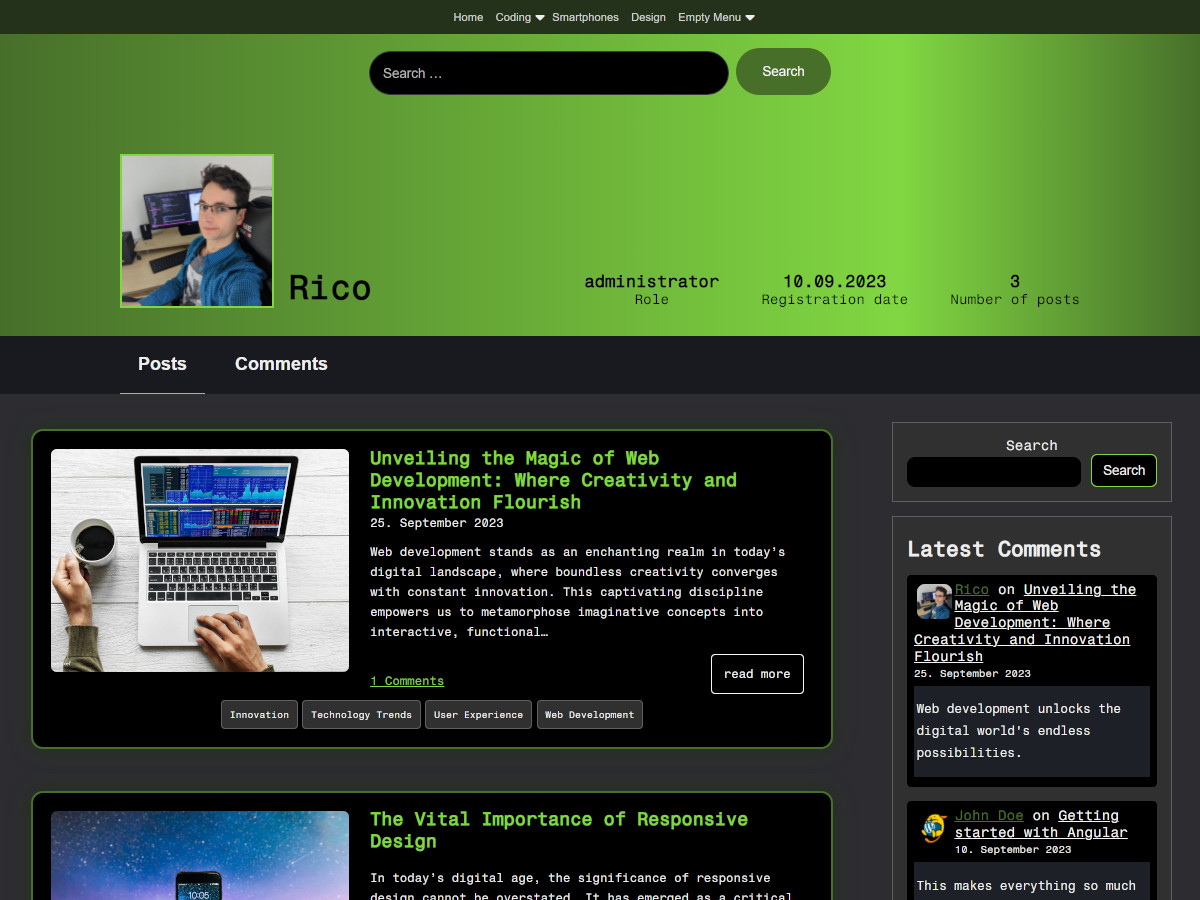
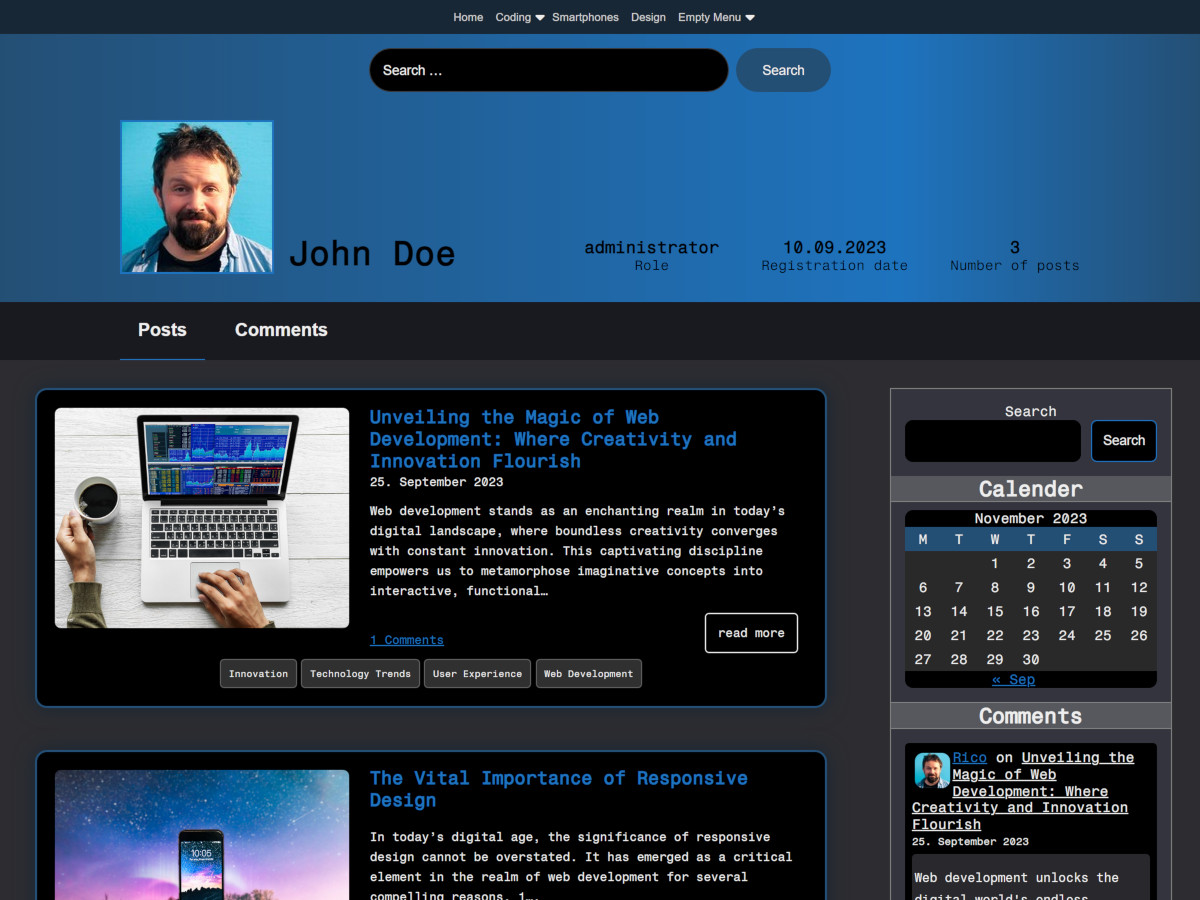
screenshoot, deleted tag mixin, fix feed sidebar

diff --git a/wp-block.css b/wp-block.css
@@ -10,25 +10,6 @@
 .wp-block-post-terms .wp-block-post-terms__separator {
   display: none;
 }
-.wp-block-post-terms a {
-  border: 1px solid rgb(95, 95, 95);
-  padding: 0.8em;
-  border-radius: 4px;
-  background-color: #303030;
-  cursor: pointer;
-  color: rgb(177, 177, 177);
-  text-decoration: none;
-  white-space: nowrap;
-  font-size: 0.8em;
-}
-.wp-block-post-terms a a {
-  color: var(--lime_blog_font_color);
-  text-decoration: none;
-  white-space: nowrap;
-}
-.wp-block-post-terms a:hover {
-  background-color: rgba(128, 128, 128, 0.575);
-}
 
 .wp-block-tag-cloud {
   display: flex;
@@ -36,26 +17,7 @@
   gap: 0.3em;
 }
 .wp-block-tag-cloud a {
-  border: 1px solid rgb(95, 95, 95);
-  padding: 0.8em;
-  border-radius: 4px;
-  background-color: #303030;
-  cursor: pointer;
-  color: rgb(177, 177, 177);
-  text-decoration: none;
-  white-space: nowrap;
-  font-size: 0.8em;
-  font-size: 0.8em !important;
   margin-right: 0;
-  background-color: #28282d;
-}
-.wp-block-tag-cloud a a {
-  color: var(--lime_blog_font_color);
-  text-decoration: none;
-  white-space: nowrap;
-}
-.wp-block-tag-cloud a:hover {
-  background-color: rgba(128, 128, 128, 0.575);
 }
 
 .wp-block-post-navigation-link {

diff --git a/template-parts/post-list-layouts/cards-posts-list.scss b/template-parts/post-list-layouts/cards-posts-list.scss
@@ -99,6 +99,7 @@
         list-style: none;
         margin: 0.5em;
         gap: 0.4em;
+
     }
 
     .lime_blog_post_card_footer_row {
@@ -111,6 +112,14 @@
 
             .lime_blog_tag {
                 border-radius: var(--lime_blog_tags_border_radius);
+                border: 1px solid rgb(95, 95, 95);
+                padding: 0.8em;
+                background-color: #303030;
+                cursor: pointer;
+                color: rgb(177, 177, 177);
+                text-decoration: none;
+                white-space: nowrap;
+                font-size: 0.8em;
             }
         }
     }

diff --git a/single.scss b/single.scss
@@ -346,7 +346,25 @@
 }
 
 .lime_blog_chips_layout_blocks {
-    @include tag;
+    border: 1px solid rgb(95, 95, 95);
+    padding: 0.8em;
+    border-radius: 4px;
+    background-color: #303030;
+    cursor: pointer;
+    color: rgb(177, 177, 177);
+    text-decoration: none;
+    white-space: nowrap;
+    font-size: 0.8em;
+
+    a {
+        color: var(--lime_blog_font_color);
+        text-decoration: none;
+        white-space: nowrap;
+    }
+    
+    &:hover {
+        background-color: rgba(128, 128, 128, 0.575);
+    }
 }
 
 .lime_blog_chips_layout_content_creator {

diff --git a/mixins.scss b/mixins.scss
@@ -1,25 +1,3 @@
-@mixin tag {
-    border: 1px solid rgb(95, 95, 95);
-    padding: 0.8em;
-    border-radius: 4px;
-    background-color: #303030;
-    cursor: pointer;
-    color: rgb(177, 177, 177);
-    text-decoration: none;
-    white-space: nowrap;
-    font-size: 0.8em;
-
-    a {
-        color: var(--lime_blog_font_color);
-        text-decoration: none;
-        white-space: nowrap;
-    }
-    
-    &:hover {
-        background-color: rgba(128, 128, 128, 0.575);
-    }
-}
-
 @mixin color_button {
     padding: 0.8em;
     border-radius: 6px;

diff --git a/style.css b/style.css
@@ -203,26 +203,6 @@ img {
   font-size: 2em;
 }
 
-.lime_blog_tag {
-  border: 1px solid rgb(95, 95, 95);
-  padding: 0.8em;
-  border-radius: 4px;
-  background-color: #303030;
-  cursor: pointer;
-  color: rgb(177, 177, 177);
-  text-decoration: none;
-  white-space: nowrap;
-  font-size: 0.8em;
-}
-.lime_blog_tag a {
-  color: var(--lime_blog_font_color);
-  text-decoration: none;
-  white-space: nowrap;
-}
-.lime_blog_tag:hover {
-  background-color: rgba(128, 128, 128, 0.575);
-}
-
 select {
   padding: 0.5em;
 }

diff --git a/template-parts/post-list-layouts/frameless-posts-list.css b/template-parts/post-list-layouts/frameless-posts-list.css
@@ -50,6 +50,14 @@
 }
 .lime_blog_frameless_post_list_item .lime_blog_tag {
   border-radius: var(--lime_blog_frameless_post_list_tags_border_radius);
+  border: 1px solid rgb(95, 95, 95);
+  padding: 0.8em;
+  background-color: #303030;
+  cursor: pointer;
+  color: rgb(177, 177, 177);
+  text-decoration: none;
+  white-space: nowrap;
+  font-size: 0.8em;
 }
 .lime_blog_frameless_post_list_item .lime_blog_frameless_post_list_item_sticky_pin {
   margin: 0.5em;

diff --git a/template-parts/post-list-layouts/cards-posts-list.css b/template-parts/post-list-layouts/cards-posts-list.css
@@ -100,6 +100,14 @@
 }
 .lime_blog_post_card .lime_blog_post_card_footer_row .lime_blog_post_card_tags_div .lime_blog_tag {
   border-radius: var(--lime_blog_tags_border_radius);
+  border: 1px solid rgb(95, 95, 95);
+  padding: 0.8em;
+  background-color: #303030;
+  cursor: pointer;
+  color: rgb(177, 177, 177);
+  text-decoration: none;
+  white-space: nowrap;
+  font-size: 0.8em;
 }
 .lime_blog_post_card .lime_blog_post_card_sticky_pin {
   display: none;

diff --git a/template-parts/post-list-layouts/frameless-posts-list.scss b/template-parts/post-list-layouts/frameless-posts-list.scss
@@ -61,6 +61,14 @@
 
     .lime_blog_tag {
         border-radius: var(--lime_blog_frameless_post_list_tags_border_radius);
+        border: 1px solid rgb(95, 95, 95);
+        padding: 0.8em;
+        background-color: #303030;
+        cursor: pointer;
+        color: rgb(177, 177, 177);
+        text-decoration: none;
+        white-space: nowrap;
+        font-size: 0.8em;
     }
 
     .lime_blog_frameless_post_list_item_sticky_pin {

diff --git a/wp-block.scss b/wp-block.scss
@@ -13,10 +13,6 @@
     .wp-block-post-terms__separator {
         display: none;
     }
-
-    a {
-        @include tag;
-    }
 }
 
 .wp-block-tag-cloud {
@@ -25,10 +21,7 @@
     gap: 0.3em;
 
     a {
-        @include tag;
-        font-size: 0.8em !important;
         margin-right: 0;
-        background-color: #28282d;
     }
 }
 

diff --git a/style.scss b/style.scss
@@ -231,10 +231,6 @@ img {
     font-size: 2em;
 }
 
-.lime_blog_tag {
-    @include tag;
-}
-
 select {
     padding: 0.5em;
 }

diff --git a/home.php b/home.php
@@ -1,5 +1,5 @@
 <?php get_header(); ?>
-<?php if (get_theme_mod('landingpage_section')) { ?>
+<?php if (get_theme_mod('landingpage_section', true)) { ?>
     <section class="lime_blog_landing_page_section <?php if(get_theme_mod('landingpage_image_animation', true)) echo 'lime_blog_landing_page_image_animation' ?>">
         <div class="lime_blog_content_spacer">
             <?php
@@ -68,7 +68,7 @@
 </main>
 <?php
 if (get_theme_mod('feed_sidebar', true)) {
-    echo '<aside id="lime_blog_sidebar" class="' . 'lime_blog_sidebar_layout_' . get_theme_mod('feed_sidebar_layout', 'blocks') . '">';
+    echo '<aside id="lime_blog_sidebar" class="' . 'lime_blog_sidebar_layout_' . get_theme_mod('feed_sidebar_layout', 'social') . '">';
     get_sidebar();
     echo '</aside>';
 }

diff --git a/template-parts/header-layouts/material3-header.php b/template-parts/header-layouts/material3-header.php
@@ -2,7 +2,7 @@
 function lime_blog_display_material3_header()
 {
     ob_start(); // Start output buffering
-    require_once('material2-header.php');
+    require_once get_template_directory() . '/template-parts/header-layouts/material2-header.php';
     echo lime_blog_display_material2_header();
     return ob_get_clean(); // Return the buffered output as a string
 }
